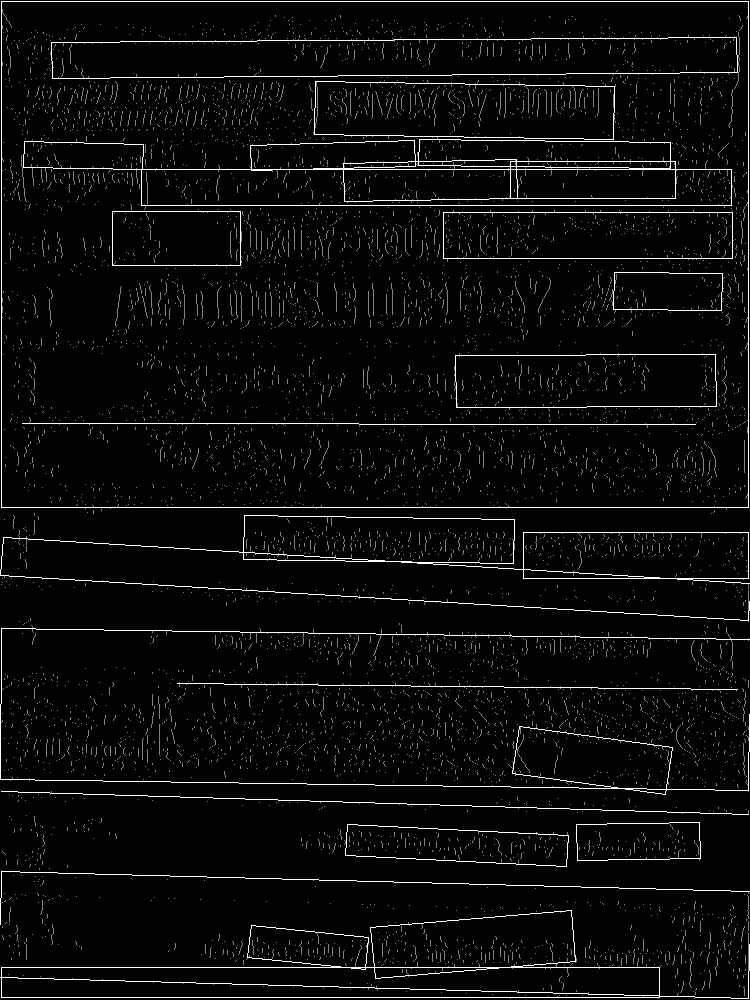
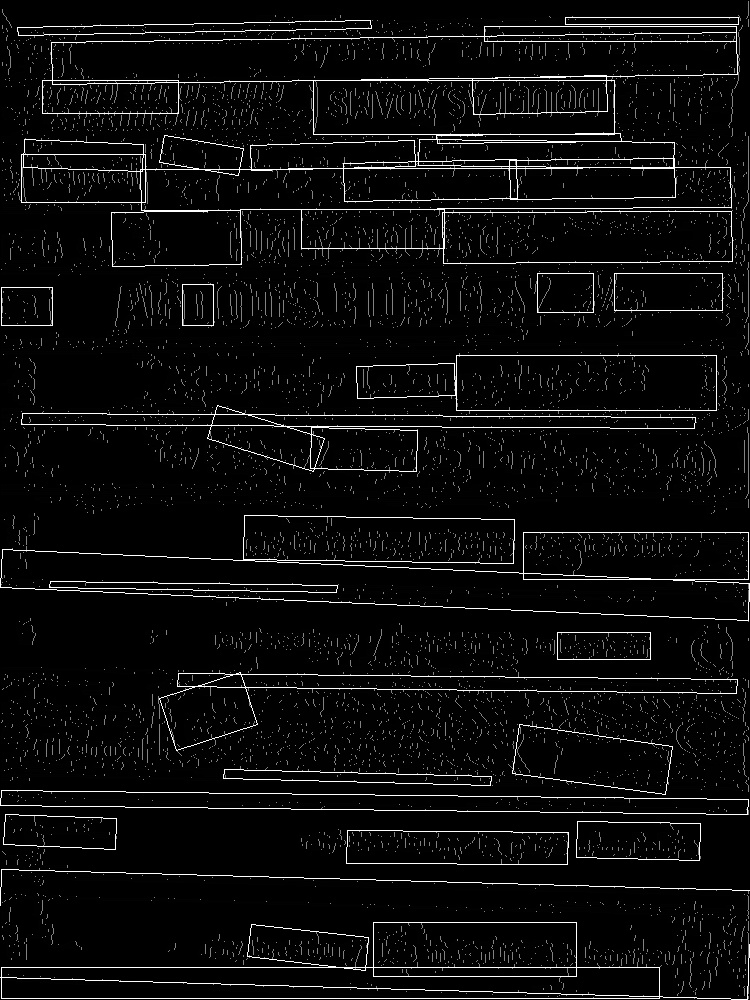
WIP

diff --git a/t.js b/t.js
@@ -7,13 +7,14 @@ const eto  = require('easy-tesseract-ocr');
 
 const WHITE = [255, 0, 255];
 const RED   = [255, 0, 0];
+const PURPL = [0, 255, 255];
 
 ////////////////////////////////////////////////////
 
 const lowThresh  = 0;
 const highThresh = 100;
 const iterations = 1;
-const minArea    = 2000;
+const minArea    = 1000;
 // const ratio      =3;
 // const kernel_size =3
 
@@ -53,14 +54,30 @@ var startProcedure = function(){
     let test = im.copy()
 
     // Process i so it's BW
-    // gray.brightness(0.1, 0.1)
     gray.convertGrayscale()
+    // test.convertGrayscale()
+
     gray.canny(lowThresh, highThresh);
     test.canny(lowThresh, highThresh);
     gray.dilate(1.22);
+    // test.dilate(1.22)
+
 
     // Get contours of every object found in the image
     let contours = gray.findContours();
+    // test.drawAllContours(contours, WHITE)
+
+    // let contours = test.findContours();
+    // let largestArea = 0;
+    // let largestAreaIndex;
+
+    // for (let i = 0; i < contours.size(); i++) {
+    //   if (contours.area(i) > largestArea) {
+    //     largestArea = contours.area(i);
+    //     test.drawContour(contours, i, PURPL, 1, 2);
+    //   }
+    // }
+
 
     console.log(gray.findContours.toString())
 
@@ -72,19 +89,25 @@ var startProcedure = function(){
 
       // Do magic with arcLength finding objects contours
       var arcLength = contours.arcLength(i, true);
-      contours.approxPolyDP(i, 0.01 * arcLength, true);
+      contours.approxPolyDP(i, 0.0001 * arcLength, true);
 
-      if(contours.cornerCount(i) < 100) {
+      if(contours.cornerCount(i) < 1000) {
 
         let rect = contours.minAreaRect(i);
 
         // console.log(contours.minAreaRect(i)['size'])
         // Check area size
-        let area = contours.minAreaRect(i)['size']['width'] * contours.minAreaRect(i)['size']['height']
-        let isNotTooBig = contours.minAreaRect(i)['size']['height'] < (height - 100)
+
+        // let rectWidth    = contours.minAreaRect(i)['size']['width']
+        // let rectHeight   = contours.minAreaRect(i)['size']['height']
+        // let area         = rectWidth * rectHeight
+        // let isNotTooHigh = rectHeight < (height - 100)
+        // let isNotTooWide = rectWidth < (width - (width/4))
+        // let isNotTooSmall= rectWidth > (width - (width/5))
+
         // let center = if rectangle is r: center: (r.x + r.width/2,  r.y+r.height/2)
-        // if(area > 60000 && isNotTooBig){
-        // if(isNotTooBig){
+        // if(isNotTooHigh && isNotTooWide && area > minArea){
+        // if((rectWidth < rectHeight)){
           for (let i = 0; i < 4; i++) {
             gray.line([rect.points[i].x, rect.points[i].y], [rect.points[(i+1)%4].x, rect.points[(i+1)%4].y], RED, 1);
           }
